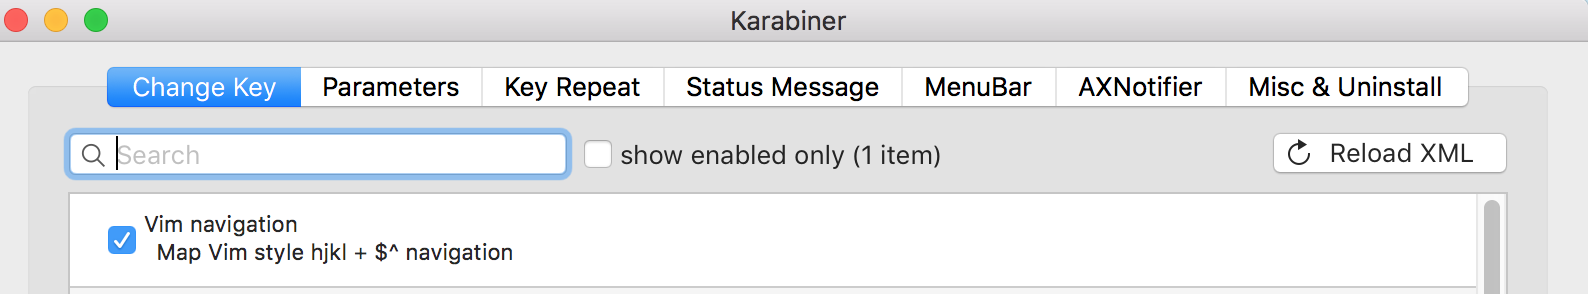
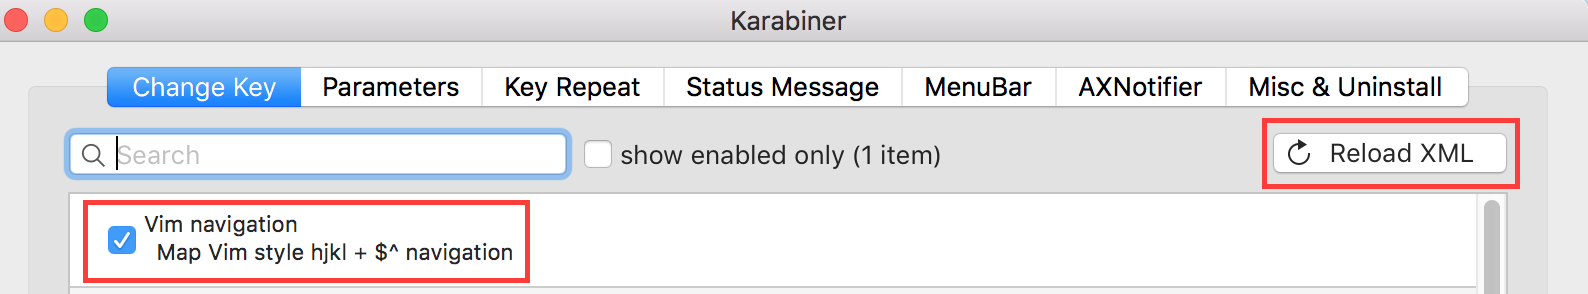
Adds OS X instructions to readme.

Changed region(s): [[0.0309, 0.6735, 0.3394, 0.9796], [0.7714, 0.398, 0.9565, 0.6429]]

diff --git a/README.md b/README.md
@@ -1,9 +1,9 @@
 # Take back Caps lock
 Use Vim style navigation anywhere by using your caps lock key as a special modifier.
-![](http://i.imgur.com/b95TNcw.jpg)
+![](https://raw.githubusercontent.com/rosay/vimnav/master/readme-pics/kb-layout.jpg)
 
 #### To Use
-Hold down the Caps Lock key and press h to move the curosr to left, Caps Lock + j will move the cursor down, etc.
+Hold down the Caps Lock key and press h to move the cursor to left, Caps Lock + j will move the cursor down, etc.
 
 #### All Shortcuts
 - Caps Lock + h: Arrow Left
@@ -20,6 +20,25 @@ Hold down the Caps Lock key and press h to move the curosr to left, Caps Lock + 
 - [Karabiner](https://pqrs.org/osx/karabiner/index.html.en)
 
 ### Instructions
+ 1. Disable the Caps Lock key in OS X.
+![](https://raw.githubusercontent.com/rosay/vimnav/master/readme-pics/osx-kb-settings.png)
+**Note** this must be done for every keyboard!
+ 2. Download and Install [Seil](https://pqrs.org/osx/karabiner/seil.html.en)
+ 3. Open Seil and set Caps Lock keycode to 80
+ ![](https://raw.githubusercontent.com/rosay/vimnav/master/readme-pics/seil-settings.png)
+ 4. Download and install [Karabiner](https://pqrs.org/osx/karabiner/index.html.en)
+ 5.  Open Karabiner and go to Misc & Uninstall tab
+ 6. Click the Open Private.xml button (this will open Finder where private.xml exists)
+ ![](https://raw.githubusercontent.com/rosay/vimnav/master/readme-pics/karabiner-private.png)
+ 7. Open private.xml with your favorite text editor
+ 8. Copy contents of vimnav\osx\KarabinerPrivate.xml into private.xml
+ 9. Save private.xml and and close it.
+ 10. Back in Karabiner go to the Change Key tab
+ ![](https://raw.githubusercontent.com/rosay/vimnav/master/readme-pics/karabiner-settings.png)
+ 11. Click Reload XML
+ 12. Find the new "Vim navigation" entry and check it
+
+**Note:** Seil and Karabiner will run automatically on startup and both of them need to be running for the shortcuts to work.
 
 ## Windows
 ### 3rd party software
